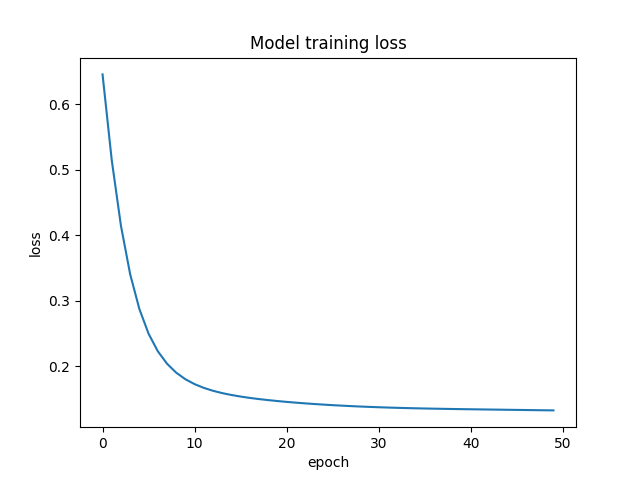
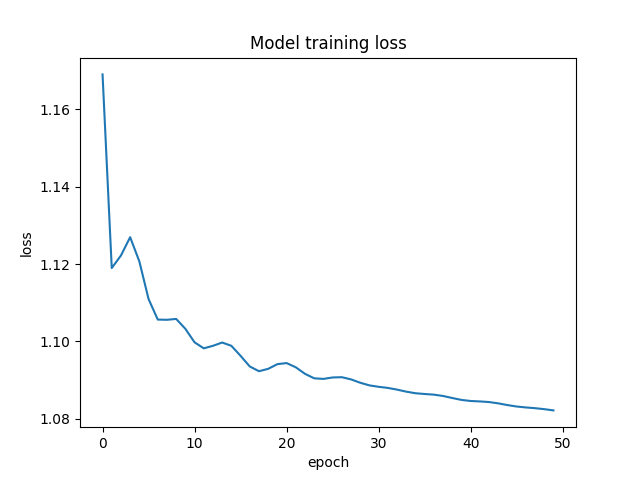
feat: implements 3 class classifier

diff --git a/zoobot_classifier.py b/zoobot_classifier.py
@@ -1,7 +1,7 @@
 import numpy as np
 import torch
-import torch.nn as nn
-import torch.optim as optim
+from torch import nn, optim
+from torch.utils import data
 import pandas as pd
 
 import tqdm
@@ -13,51 +13,68 @@ import os
 
 
 
-# ------ data ------
-encoder = 'zoobot-encoder-convnext_nano'
+# ------ data treatment ------
+ENCODER_NAME = 'zoobot-encoder-convnext_nano'
+ENCODER_OUT_FEATURES = 640
+TRAIN_FRACTION = 0.8
+
 try:
-    os.makedirs(f'results/{encoder}')
+    os.makedirs(f'results/{ENCODER_NAME}')
 except FileExistsError:
     pass
 
-features = pd.read_csv(f'data/{encoder}.feature_vector.csv', sep=' ',
-                       header=None, names=['asset_id', *range(640)])
+features = pd.read_csv(f'data/{ENCODER_NAME}.feature_vector.csv', sep=' ',
+                       header=None, names=['asset_id', *range(ENCODER_OUT_FEATURES)])
 features.dropna(axis=0, how='any', inplace=True)
 df = pd.read_csv('data/gz2_hart16_classes_simple.csv')
 
 df_features = pd.merge(features, df, on='asset_id', how='inner')  # automatically filters
 del df, features
 
-mapa = {'E': 0, 'S': 1, 'SB': 1}
-df_features['classe_binaria'] = df_features['hubble_class'].map(mapa)
-df_features['not_classe'] = (df_features['classe_binaria'] - 1).abs()  # negation
+# ------ one-hot encoding and rebalancing ------
 
-print(f'Number of E: {df_features['not_classe'].sum()}, S/SB: {df_features['classe_binaria'].sum()}')
+hubble_classes = df_features['hubble_class'].unique()
+class_columns = [f'hubble_class_{hc}' for hc in hubble_classes]
+df_features = pd.get_dummies(df_features, columns=['hubble_class'])  # this drops the actual 'hubble_class' column
 
-X = torch.tensor(df_features[[*range(0, 640)]].to_numpy(), dtype=torch.float32)
-y = torch.tensor(df_features[['not_classe', 'classe_binaria']].to_numpy(), dtype=torch.float32)
-# [1,0] -> E
-# [0,1] -> S/SB
+class_counts = df_features[class_columns].sum()
+print('Class counts before undersampling:', class_counts, '', sep='\n')
+
+resample_size = class_counts.min()  # resample size = size of smallest class
+df_features = pd.concat([
+    df_features[df_features[col]].sample(resample_size)
+    for col in class_columns
+])
+
+print('Class counts after undersampling:',
+      df_features[class_columns].sum(),
+      '',
+      sep='\n')
+
+# ------ torch encoding ------
+X = data.TensorDataset(torch.tensor(df_features[[*range(ENCODER_OUT_FEATURES)]].to_numpy(), dtype=torch.float32))
+y = data.TensorDataset(torch.tensor(df_features[class_columns].to_numpy(), dtype=torch.float32))
+del df_features   # save memory ;p
 
 # dividing between train and test
-N = X.shape[0]
-N_train = int(0.8 * N)
-
-X_train = X[:N_train]
-y_train = y[:N_train]
-X_test = X[N_train:]
-y_test = y[N_train:]
-
-print(f'Total samples: {N}. Train samples: {N_train}. Test samples: {N - N_train}')
+X_train, X_test = torch.utils.data.random_split(X, [TRAIN_FRACTION, 1 - TRAIN_FRACTION])
+X_train = X_train[:][0]  # recuperates the tensors from de datasets
+X_test = X_test[:][0]
+y_train, y_test = torch.utils.data.random_split(y, [TRAIN_FRACTION, 1 - TRAIN_FRACTION])
+y_train = y_train[:][0]
+y_test = y_test[:][0]
+print(f'Total samples: {len(X)}. Train samples: {len(X_train)}. Test samples: {len(X_test)}')
+del X, y
 
 # ------ classifier ------
-model = nn.Linear(640, 2)
+model = nn.Linear(ENCODER_OUT_FEATURES, len(class_counts))
 criterion = nn.CrossEntropyLoss()
 optimizer = optim.Adam(model.parameters(), lr=1e-3)
 
 num_epochs = 50
 train_loss_history = np.empty(num_epochs)
 
+model.train()
 for epoch in tqdm.tqdm(range(num_epochs)):
     optimizer.zero_grad()
 
@@ -72,12 +89,12 @@ plt.title('Model training loss')
 plt.plot(train_loss_history)
 plt.xlabel('epoch')
 plt.ylabel('loss')
-plt.savefig(f'results/{encoder}/classifier-loss.png')
+plt.savefig(f'results/{ENCODER_NAME}/classifier-loss.png')
 
 model.eval()
 with torch.no_grad():
     logits = model(X_test)
-    y_pred = torch.argmax(logits, dim=1)
+    y_pred = torch.sigmoid(logits)
 
 
 # ------ PCA classes plot ------
@@ -89,16 +106,19 @@ pca_results = pca.fit_transform(X_test)
 df_test = pd.DataFrame({
     'pca_x': pca_results[:, 0],
     'pca_y': pca_results[:, 1],
-    'hubble_class': y_test[:, 0],
-    'pred_class': y_pred
 })
+# one-hot to categorical encoding
+
+df_test['hubble_class'] = list(map(lambda i_class: hubble_classes[i_class], np.argmax(y_test, axis=1)))
+df_test['pred_class'] = list(map(lambda i_class: hubble_classes[i_class], np.argmax(y_pred, axis=1)))
+
 group_labels = df_test.groupby('hubble_class')
-group_clusters = df_test.groupby('pred_class')
+group_classes = df_test.groupby('pred_class')
 
 
 fig, (ax0, ax1) = plt.subplots(1, 2, figsize=(20, 10), sharey=True)
 
-fig.suptitle(f'Single dense layer perceptron classification with PCA\n{encoder}')
+fig.suptitle(f'Single dense layer perceptron classification with PCA\n{ENCODER_NAME}')
 
 ax0.set_xlabel('PCA x')
 ax0.set_ylabel('PCA y')
@@ -110,20 +130,22 @@ for name, group in group_labels:
 ax0.legend()
 
 ax1.set_title('Classes from dense layer perceptron')
-for name, group in group_clusters:
+for name, group in group_classes:
     ax1.scatter(group.pca_x, group.pca_y, label=name)
 ax1.legend()
 
-fig.savefig(f'results/{encoder}/classifier.pca.png')
-
+fig.savefig(f'results/{ENCODER_NAME}/classifier.pca.png')
+del group_classes, group_labels
 
 # ------ confusion matrix ------
+
+
 cm = confusion_matrix(
-        y_true=y_test.numpy()[:, 0],
-        y_pred=y_pred.numpy()
+        y_true=df_test['hubble_class'],
+        y_pred=df_test['pred_class']
 )
 
-labels = ["class_0", "class_1"]
+labels = hubble_classes
 cm_df = pd.DataFrame(
     cm,
     index=pd.Index(labels, name="true"),
@@ -132,9 +154,9 @@ cm_df = pd.DataFrame(
 
 result = f'''# Result report
 
-Methodology: 2 perceptrons with 640 features from {encoder}.
-Training dataset size: {N_train}
-Test dataset size:     {N-N_train}
+Methodology: 2 perceptrons with {ENCODER_OUT_FEATURES} features from {ENCODER_NAME}.
+Training dataset size: {len(X_train)}
+Test dataset size:     {len(X_test)}
 
 Confusion matrix:
 {cm_df}
@@ -144,5 +166,5 @@ Normalized:
 '''
 
 print(result)
-with open(f'results/{encoder}/classifier.report.txt', 'w+') as f:
+with open(f'results/{ENCODER_NAME}/classifier.report.txt', 'w+') as f:
     f.write(result)

diff --git a/zoobot_encoder.py b/zoobot_encoder.py
@@ -46,6 +46,8 @@ if __name__ == '__main__':
     n = 5000  # max_n  # select first n elements
     batch_size = 1000  # partial saving batches
 
+    # todo: balanced sampling
+
 
     try:
         os.remove(outfile)
